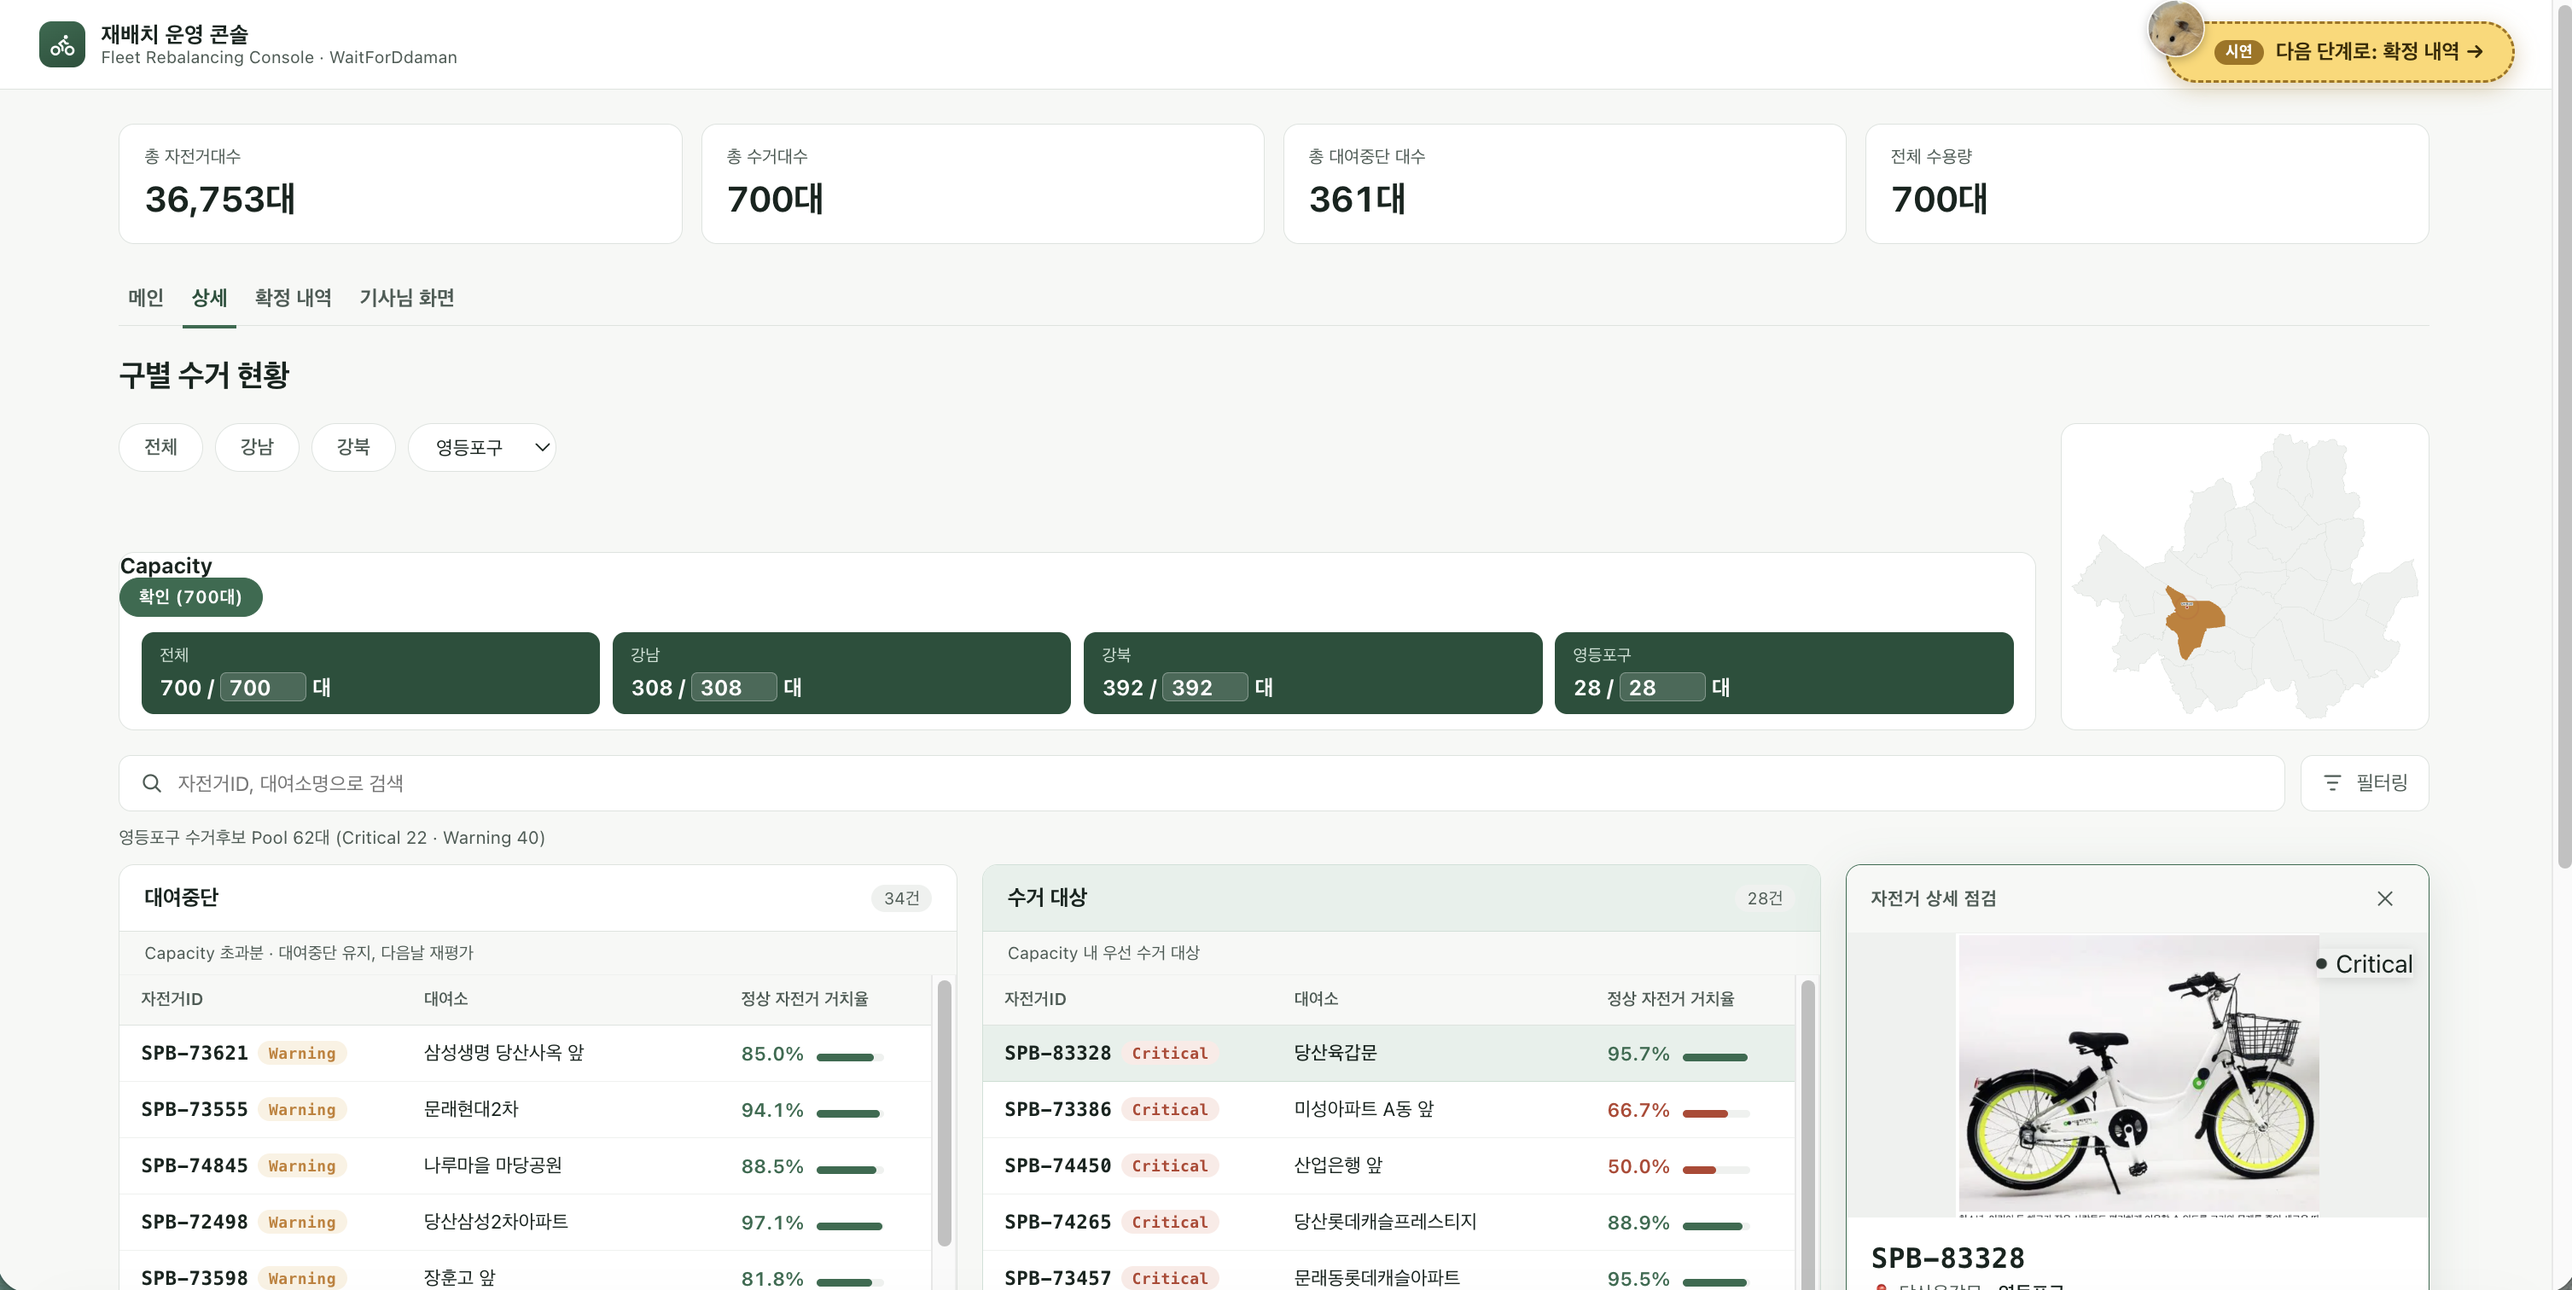
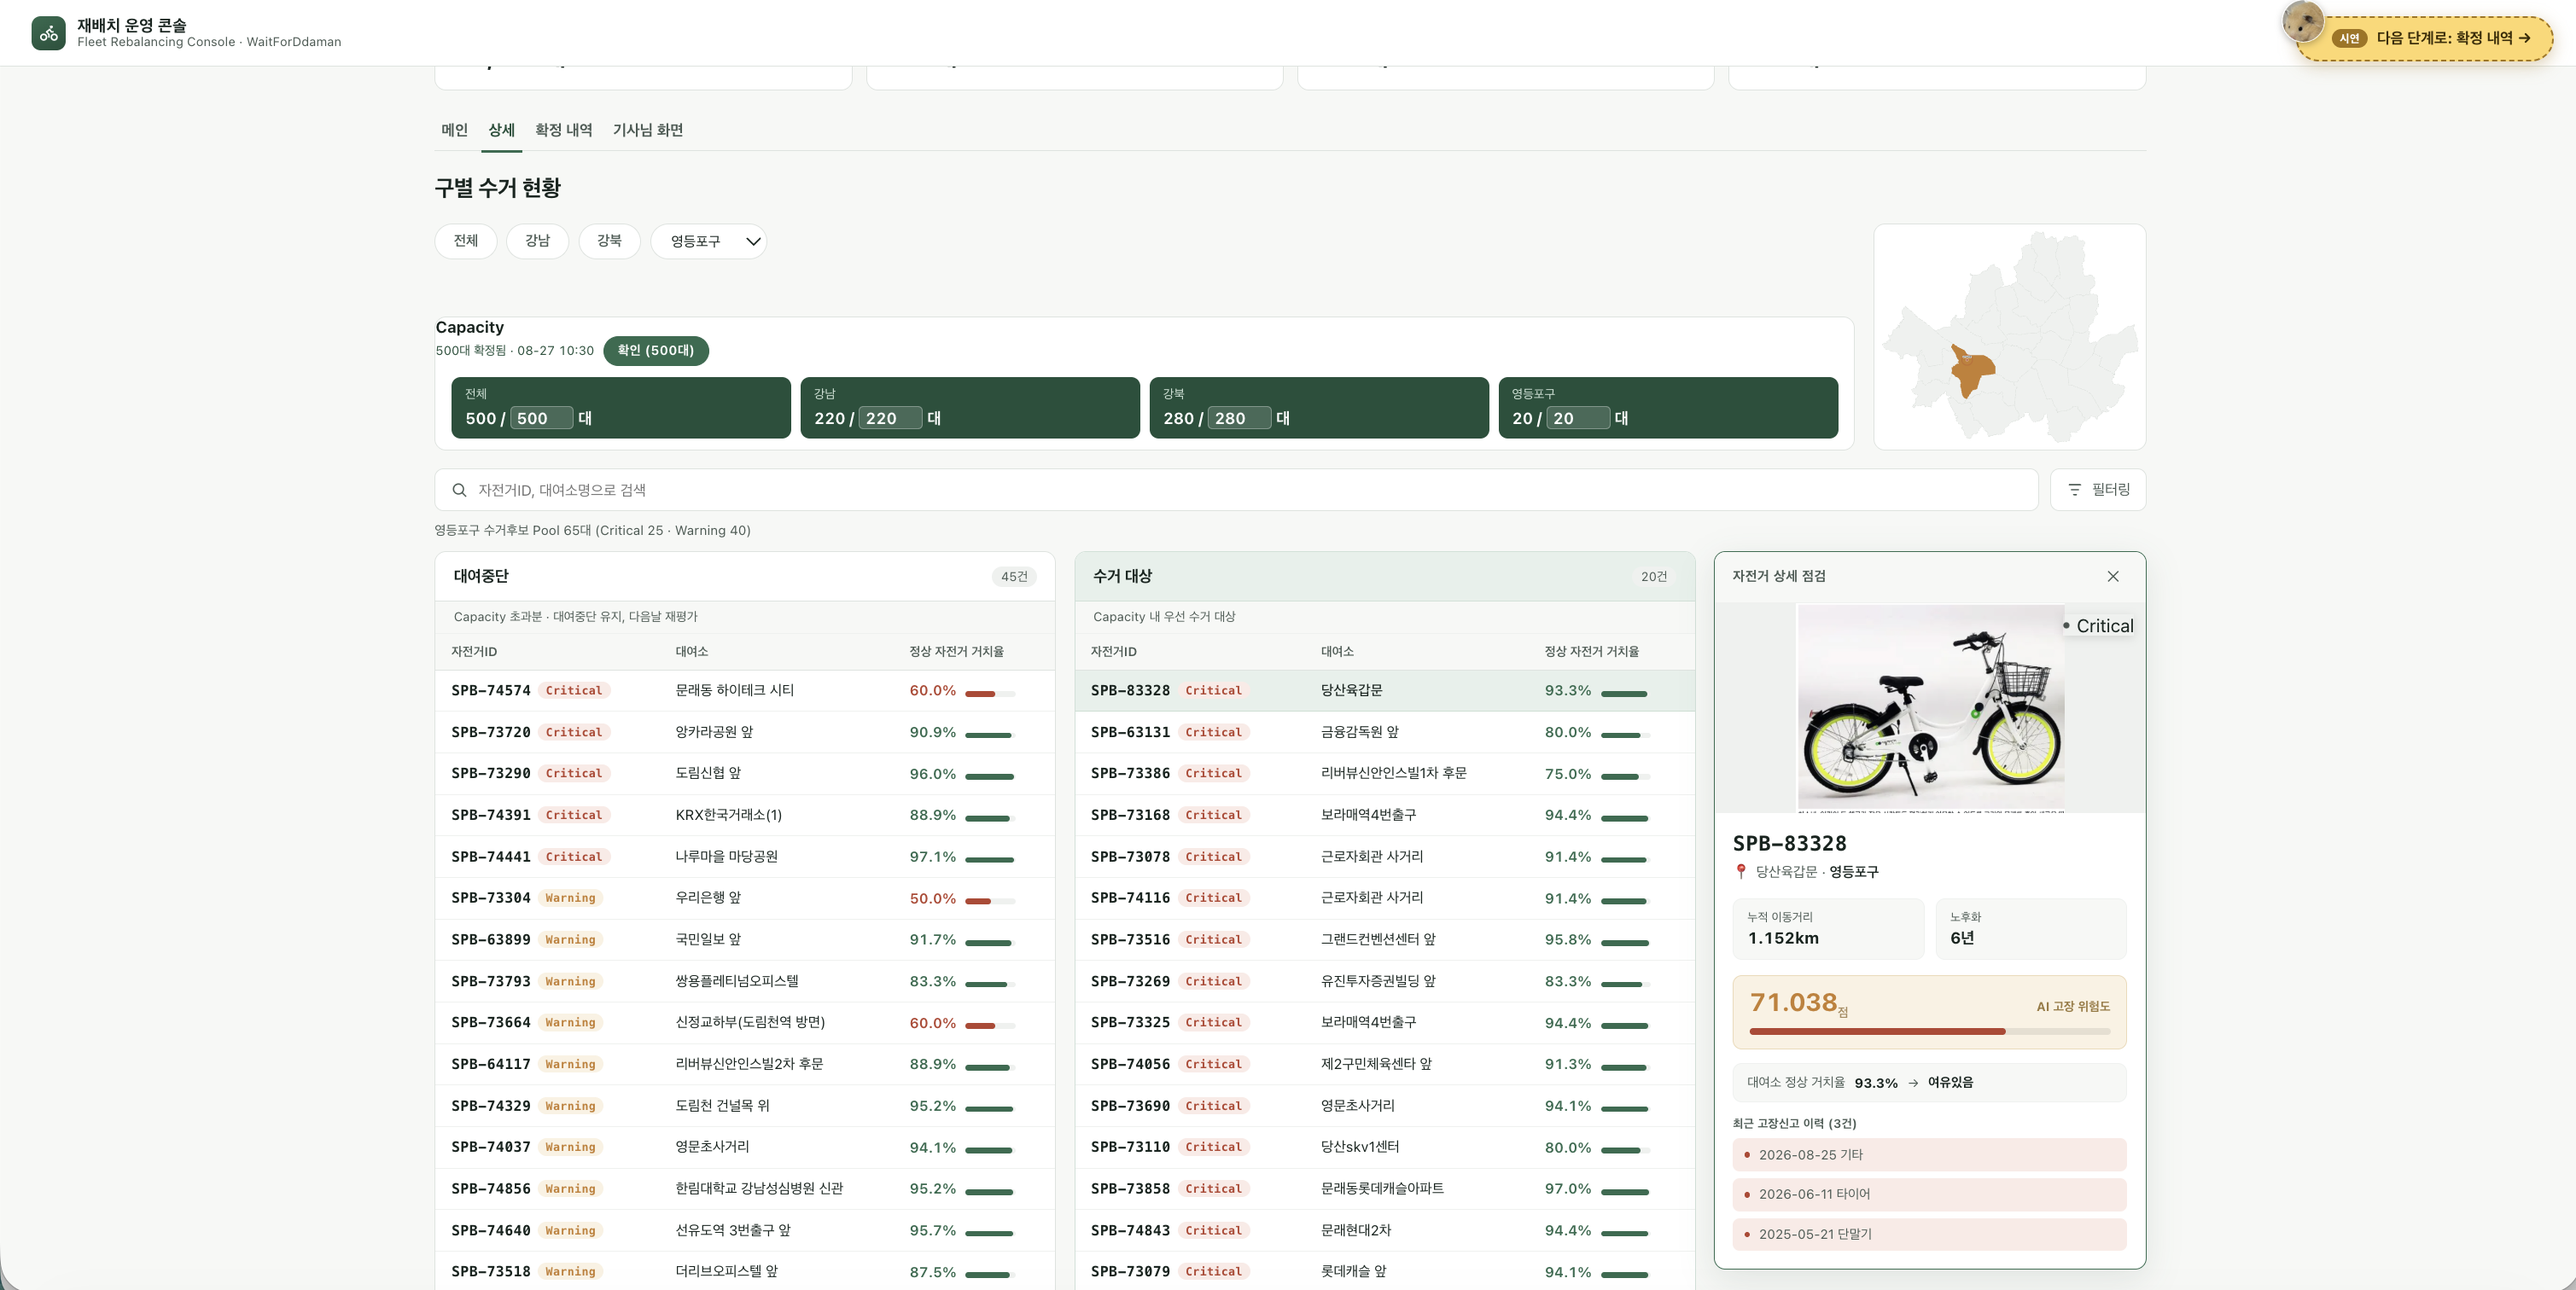
docs: 그림 및 한계, 향후 작업 기술

diff --git a/README.md b/README.md
@@ -48,7 +48,7 @@
 
 > 직전 30일 동안 고장 신고가 없었던 신규 고장 자전거 중, 실제 신고가 접수되기 전에 당일 정비소 수용력 범위의 수거 우선순위 목록에 포함된 자전거의 비율
 >
-> 2026년 7월 한 달 동안 **신규 고장 선제 포착률 Before 0% → After XX%**
+> 2026년 4~6월 동안 무작위 수거 방법 대비 **신규 고장 선제 포착률 2.76배 향상**
 
 ### 기대 효과와 측정 지표
 
@@ -67,17 +67,15 @@
 
 ## 결과
 
-### 수거 반장님 화면
+[서비스 링크](http://ec2-15-165-230-137.ap-northeast-2.compute.amazonaws.com/)
+
 ![수거 반장님 화면](docs/images/recommended_list.png)
-- 짧은 설명
+- 오늘 정비소가 받을 수 있는 대수를 입력
+- 수거 후보가 수용력 안에 들어오는 '수거 대상'과, 초과분인 '대여중단'으로 분류
+- '확인' 누를 시 그날의 수거 목록 확정
 
-### 현장 작업자
 ![현장 작업자 화면](docs/images/final_list.png)
-- 짧은 설명
-
-### 사이트
-- 사이트: http://ec2-15-165-230-137.ap-northeast-2.compute.amazonaws.com/
-- 짧은 설명
+- 현장 작업자가 당일에 수거해야 하는 목록
 
 ## 구성
 
@@ -147,8 +145,8 @@
 | Distributed Processing | ![Spark](https://img.shields.io/badge/spark-%23E25A1C.svg?style=for-the-badge&logo=apachespark&logoColor=white) | 대용량 초기 적재와 모델 피처 집계 |
 | In-process Analytics | ![Duckdb](https://img.shields.io/badge/duckdb-%23FFF000.svg?style=for-the-badge&logo=duckdb&logoColor=black) | 일별 SQL 변환, Window Function과 조인을 낮은 기동 비용으로 처리 |
 | Data Interface | ![PyArrow](https://img.shields.io/badge/PyArrow-%23000000.svg?style=for-the-badge&logo=apachearrow&logoColor=white) | DuckDB와 Iceberg 사이의 컬럼형 데이터 전달 |
-| Data Lakehouse | ![Amazon S3](https://img.shields.io/badge/S3-%23569A31.svg?style=for-the-badge&logo=amazons3&logoColor=white) Apache Iceberg PyIceberg | 파티셔닝, 원자적 커밋, Snapshot, 재처리와 변경 이력 관리 |
-| ML | ![scikit-learn](https://img.shields.io/badge/scikit--learn-%23F7931E.svg?style=for-the-badge&logo=scikitlearn&logoColor=white) LightGBM | 규칙·선형·트리 모델 비교와 Champion 관리 |
+| Data Lakehouse | ![Amazon S3](https://img.shields.io/badge/S3-%23569A31.svg?style=for-the-badge&logo=amazons3&logoColor=white) ![Apache Iceberg](https://img.shields.io/badge/Apache%20Iceberg-1E88E5.svg?style=for-the-badge&logoColor=white) ![PyIceberg](https://img.shields.io/badge/PyIceberg-0EA5E9.svg?style=for-the-badge&logoColor=white) | 파티셔닝, 원자적 커밋, Snapshot, 재처리와 변경 이력 관리 |
+| ML | ![scikit-learn](https://img.shields.io/badge/scikit--learn-%23F7931E.svg?style=for-the-badge&logo=scikitlearn&logoColor=white) ![LightGBM](https://img.shields.io/badge/LightGBM-4CAF50.svg?style=for-the-badge&logoColor=white) | 규칙·선형·트리 모델 비교와 Champion 관리 |
 | Serving DB | ![PostgreSQL](https://img.shields.io/badge/PostgreSQL-%234169E1.svg?style=for-the-badge&logo=postgresql&logoColor=white) | 일별 Mart 적재와 읽기 전용 API 제공 |
 | Infrastructure | ![AWS Lambda](https://img.shields.io/badge/Lambda-%23FF9900.svg?style=for-the-badge&logo=awslambda&logoColor=white) ![Amazon EC2](https://img.shields.io/badge/EC2-%23FF9900.svg?style=for-the-badge&logo=amazonec2&logoColor=white) ![Amazon RDS](https://img.shields.io/badge/RDS-%23527FFF.svg?style=for-the-badge&logo=amazonrds&logoColor=white) ![Amazon ECR](https://img.shields.io/badge/ECR-%23FF9900.svg?style=for-the-badge&logo=amazonecr&logoColor=white) | Raw 수집, 실행 환경, 서빙 DB와 이미지 배포 |
 | Monitoring | ![CloudWatch](https://img.shields.io/badge/CloudWatch-%23FF9900.svg?style=for-the-badge&logo=cloudwatch&logoColor=white) ![Amazon SNS](https://img.shields.io/badge/SNS-%23FF9900.svg?style=for-the-badge&logo=amazonsns&logoColor=white) ![Slack](https://img.shields.io/badge/Slack-%234A154B.svg?style=for-the-badge&logo=slack&logoColor=white) | Lambda·DLQ 감지와 Airflow 실패 알림 |
@@ -163,13 +161,24 @@
 
 ## 한계 및 향후 작업
 
-- 현재 모델 평가는 제한적인 로컬 데이터와 짧은 홀드아웃 구간에서 수행되어 장기간 운영 데이터 기반 재평가가 필요합니다.
-- 위험 등급 임계값은 모델과 데이터 분포 변화에 따라 다시 검증해야 합니다.
-- 업무 시작 전 제공을 위한 운영 SLA와 전체 End-to-End 실행시간을 실제 운영 환경에서 확정해야 합니다.
-- Slack 실패 알림은 현재 일부 주요 DAG에만 적용되어 전체 파이프라인으로 확대할 필요가 있습니다.
-- 실제 수거 결과가 축적되면 신규 고장 선제 포착률 및 수거 적중률, 고장 감소율과 작업시간 절감 효과를 측정해야 합니다.
-- 데이터 규모 증가에 따라 실행 시간, 메모리, 파일 크기와 저장 비용을 지속적으로 관찰해야 합니다.
-- 작업자별 업무 배정, 완료 상태, 사용자 인증과 이동 경로 최적화는 향후 서비스 확장 영역입니다.
+### 한계
+
+- 모델 평가가 제한적인 로컬 데이터, 짧은 홀드아웃 구간 기반이라 장기 재평가 필요
+- 위험 등급 임계값이 고정값이라 데이터 분포 변화 시 재검증 필요
+- Iceberg Bronze 테이블은 최초 생성만 자동화되어 있고, 스키마 변경은 수동 반영
+- Terraform 상태를 원격 backend 없이 관리, 인프라 적용도 CI/CD에 미통합
+- Slack 실패 알림이 일부 주요 DAG에만 적용
+- 운영 SLA, 전체 E2E 실행시간이 실 운영 환경 기준으로 미확정
+
+### 향후 작업
+
+- Iceberg 스키마 마이그레이션 절차·검증 도구 정립
+- Terraform 원격 state backend 도입, 인프라 적용 CI/CD 통합
+- Slack 실패 알림 전체 DAG로 확대
+- 모델, 위험 등급 임계값 주기적 재검증 체계 수립
+- 수거 결과 축적 후 신규 고장 선제 포착률, 고장 감소율, 작업시간 절감 효과 측정
+- 데이터 규모 증가에 따른 실행시간, 메모리, 비용 지속 관찰
+- 작업자 배정, 인증, 경로 최적화 등 서비스 확장 검토
 
 ## 팀원 소개
 
